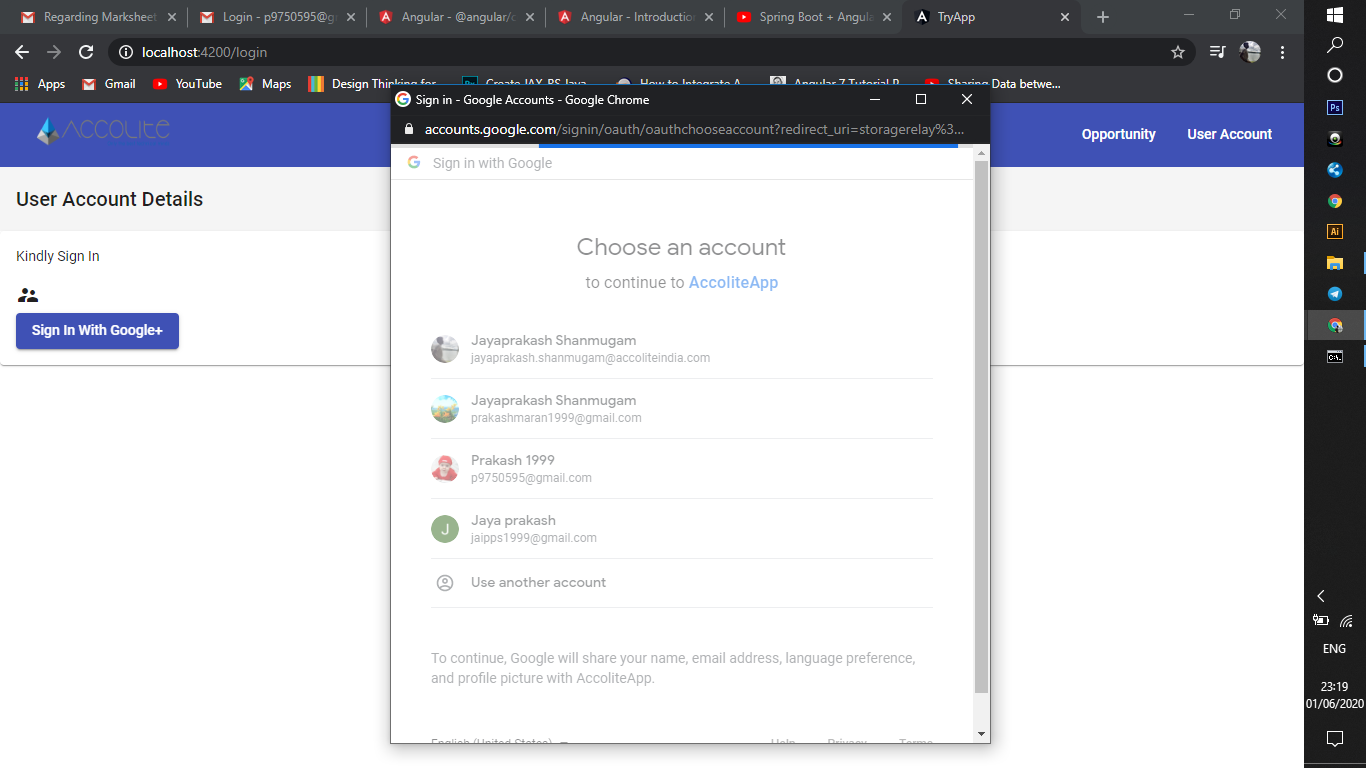
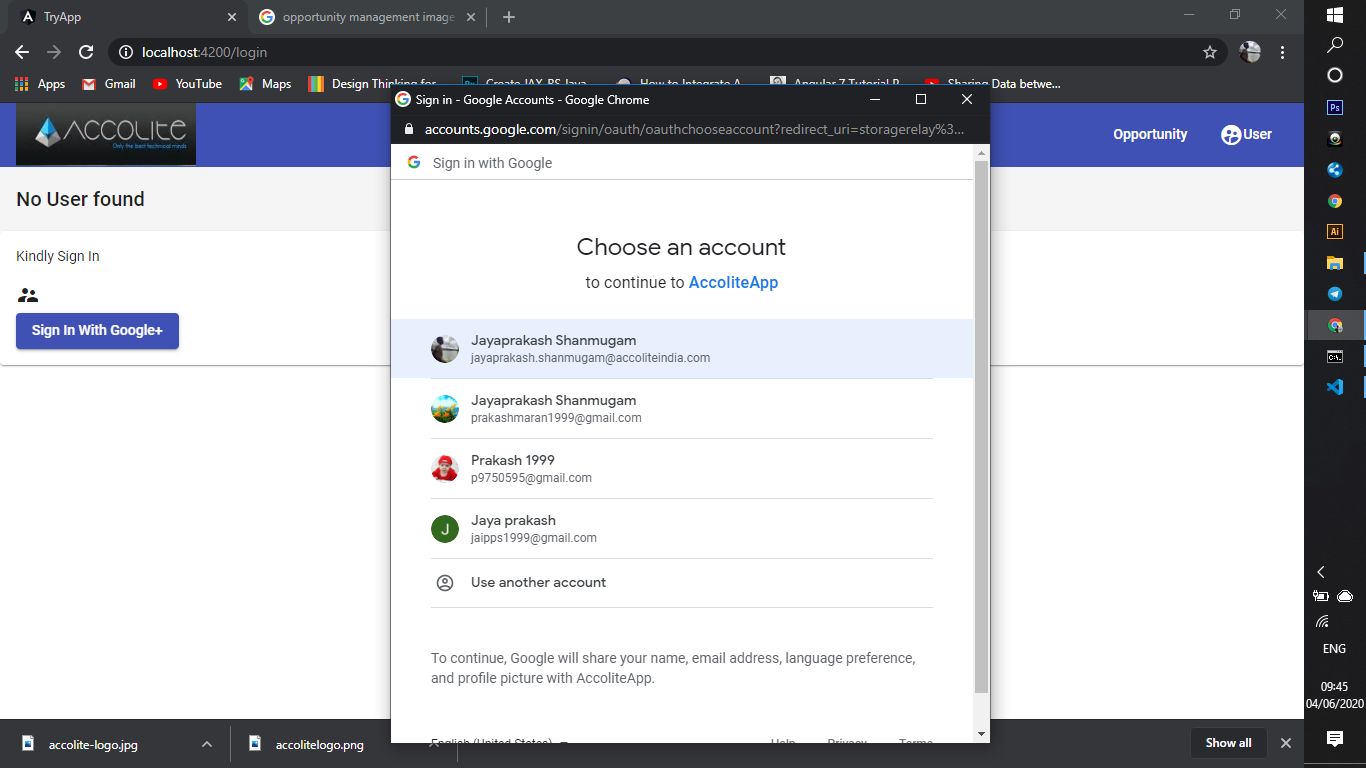
View Changes in Angular and naming Conventions in Spring boot

diff --git a/Angular/src/app/sample/sample.component.html b/Angular/src/app/sample/sample.component.html
@@ -5,58 +5,58 @@
   <mat-card>         
     <mat-card-content>  
                     <form>     
-                      <mat-form-field class="full-width" appearance="outline">
+                      <mat-form-field *ngFor="let Opportunity of message" class="full-width" appearance="outline">
                         <mat-label>OpportunityId</mat-label>
                         <input  matInput type="number"  placeholder="OpportunityId"  name="oid" [(ngModel)]=Opportunity.oid  required>
                         
                     </mat-form-field> 
                       &nbsp;&nbsp;
                     
-                      <mat-form-field class="full-width" appearance="outline">
+                      <mat-form-field *ngFor="let Opportunity of message" class="full-width" appearance="outline">
                         <mat-label>OppurtunityDescription</mat-label>
                         <input  matInput  placeholder="Description" name="description" [(ngModel)]=Opportunity.description required>
                      </mat-form-field>    
                      <br>
-                    <mat-form-field class="full-width" appearance="outline">
+                    <mat-form-field *ngFor="let Opportunity of message" class="full-width" appearance="outline">
                     <mat-label>Location</mat-label>
                     <input  matInput  placeholder="Location" name="location" [(ngModel)]=Opportunity.location  required>
                      </mat-form-field>     
                      &nbsp;&nbsp;
-                      <mat-form-field class="full-width" appearance="outline">
+                      <mat-form-field  *ngFor="let Opportunity of message" class="full-width" appearance="outline">
                         <mat-label>Skills</mat-label>
                         <input  matInput  placeholder="Skills"  name="skills" [(ngModel)]=Opportunity.skills required>
                      </mat-form-field> 
                      <br>          
-                      <mat-form-field class="full-width" appearance="outline">
+                      <mat-form-field *ngFor="let Opportunity of message" class="full-width" appearance="outline">
                         <mat-label>OpeningCount</mat-label>
                         <input  matInput type="number"  placeholder="OpeningCount" name="openingcount" [(ngModel)]=Opportunity.openingcount required>
                      </mat-form-field>
                      &nbsp;&nbsp;
-                    <mat-form-field class="full-width" appearance="outline">
+                    <mat-form-field  *ngFor="let Opportunity of message" class="full-width" appearance="outline">
                       <mat-label>ProjectDuration</mat-label>
                       <input  matInput type="number" placeholder="ProjectDuration in Days" name="projectduration" [(ngModel)]=Opportunity.projectduration required>
                    </mat-form-field>
                     
                    <br>
-                  <mat-form-field class="full-width" appearance="outline">
+                  <mat-form-field *ngFor="let Opportunity of message" class="full-width" appearance="outline">
                     <mat-label>LastDate</mat-label>
                     <input  matInput  placeholder="LastDate" name="lastdate" [(ngModel)]=Opportunity.lastdate required>
                  </mat-form-field>
                  &nbsp;&nbsp;
             
-                  <mat-form-field class="full-width" appearance="outline">
+                  <mat-form-field *ngFor="let Opportunity of message" class="full-width" appearance="outline">
                     <mat-label>Experience</mat-label>
                     <input  matInput  placeholder="Experience" name="experience"  [(ngModel)]=Opportunity.experience required>
                  </mat-form-field> 
                  <br>
   
-                 <mat-form-field class="full-width" appearance="outline">
+                 <mat-form-field *ngFor="let Opportunity of message" class="full-width" appearance="outline">
                   <mat-label>ManagerName</mat-label>
                   <input  matInput  placeholder="ManagerName" name="managername"  [(ngModel)]=Opportunity.managername required>
                </mat-form-field> 
                &nbsp;&nbsp;
                
-                 <mat-form-field class="full-width" appearance="outline">
+                 <mat-form-field  *ngFor="let Opportunity of message" class="full-width" appearance="outline">
                   <mat-label>ManagerEmail</mat-label>
                   <input  matInput type="email"  [formControl]="email" placeholder="ManagerEmail" name="manageremail" [(ngModel)]=Opportunity.manageremail required>
                   <mat-error *ngIf="email.invalid">{{getErrorMessage()}}</mat-error>
@@ -66,7 +66,7 @@
            
                
               <br>     
-                        <button mat-raised-button color="primary" (click)="updatenow()">Update</button> &nbsp;&nbsp;&nbsp;   
+                        <button mat-raised-button color="primary" (click)="updatenow(1)">Update</button> &nbsp;&nbsp;&nbsp;   
                         <button mat-raised-button color="primary" type="reset">Clear</button>    
               </form>
     </mat-card-content>    

diff --git a/Angular/src/app/login-user/login-user.component.html b/Angular/src/app/login-user/login-user.component.html
@@ -1,25 +1,52 @@
-<app-home></app-home>
-<mat-toolbar>
-  User Account Details&nbsp;&nbsp;&nbsp; 
-</mat-toolbar>
 
-<mat-card>  
+
+
+
      
    <div *ngIf="loggedIn===false">
-    <mat-card-content>Kindly Sign In</mat-card-content> 
+    <mat-toolbar color="primary">
+      <mat-toolbar-row>
+         <span><a href="/"> <img src="assets/img/accolite-logo.jpg" alt="MS-logo" width="180" height="70"></a></span>
+         <span class="spacer"></span>
+         
+            
+            <a  mat-button  routerLink="/viewtrends">Opportunity</a>
+         
+            <a  mat-button  routerLink="/login"><mat-icon>supervised_user_circle</mat-icon>User</a>
+      </mat-toolbar-row>
+    </mat-toolbar>
+    <mat-toolbar>
+      No User found&nbsp;&nbsp;&nbsp; 
+    </mat-toolbar>
+    <mat-card>
+    <mat-card-content>Kindly Sign In</mat-card-content>
     <mat-icon>supervisor_account</mat-icon>   
         <form [formGroup]="signinForm">
         </form>
         <div>
           <button mat-raised-button color="primary" (click)="signInWithGoogle()" class="btn btn-primary">Sign In With Google+</button>
         </div>
+       </mat-card> 
       </div> 
       <div *ngIf="loggedIn===true">
+        <mat-toolbar color="primary">
+          <mat-toolbar-row>
+             <span><a href="/"> <img src="assets/img/accolite-logo.jpg" alt="MS-logo" width="180" height="70"></a></span>
+             <span class="spacer"></span>
+                <a  mat-button  routerLink="/viewtrends">Opportunity</a>
+             <button  mat-button  (click)="signOut()">Logout</button>
+          </mat-toolbar-row>
+        </mat-toolbar>
+        <mat-toolbar>
+          User Details&nbsp;&nbsp;&nbsp; 
+        </mat-toolbar>
+        <mat-card>
         <mat-card-content>Signed In with Google</mat-card-content> 
         <mat-icon>supervisor_account</mat-icon> 
         <mat-icon>verified_user</mat-icon>
+        
         <div class="form-group">
-          <label for="firstname">First Name:&nbsp;&nbsp;;</label>
+          <label for="firstname">First Name:&nbsp;&nbsp;</label>
 
           <input type="text" class="form-control" id="firstname" [(ngModel)]="user.firstName" [value]="user.firstName" readonly >
         </div>          <div class="form-group">
@@ -30,9 +57,7 @@
           <input type="email" class="form-control" id="email2" [(ngModel)]="user.email" [value]="user.email" readonly >
         </div>
        <br>
-        <button mat-raised-button color="primary" (click)="signOut()" class="btn btn-primary">Sign Out</button>      
-         &nbsp;&nbsp;
-        <button mat-raised-button color="primary" (click)="saveuser()" class="btn btn-primary">Save User</button>      
-            
-      </div>   
-</mat-card>
+       </mat-card>
+      </div> 
+     
+

diff --git a/Angular/src/app/trendstable/trendstable.component.ts b/Angular/src/app/trendstable/trendstable.component.ts
@@ -9,6 +9,7 @@ import {MatSnackBar} from '@angular/material/snack-bar';
 import {MatDialogModule,MatDialog, MatDialogConfig} from '@angular/material/dialog';
 import { SampleComponent } from '../sample/sample.component';
 import { UserhomeComponent } from '../userhome/userhome.component';
+import { FormGroup, FormControl, Validators } from '@angular/forms';
 
 @Component({
   selector: 'app-trendstable',
@@ -19,6 +20,25 @@ export class TrendstableComponent implements OnInit {
   
   constructor(private OpportunityserviceService:OpportunityserviceService,private _snackBar: MatSnackBar,private dialog:MatDialog)
   {}
+  form : FormGroup = new FormGroup({
+    oid: new FormControl(null),
+    description: new FormControl('',Validators.required),
+    location: new FormControl('',Validators.required),
+    skills: new FormControl('',Validators.required),
+    openingcount: new FormControl(0),
+    projectduration: new FormControl(0),
+    lastdate: new FormControl('',Validators.required),
+    experience: new FormControl('',Validators.required),
+    managername: new FormControl('',Validators.required),
+    manageremail: new FormControl('',Validators.required),
+    
+    
+    
+  });
+
+
+
+
   message:any;
   displayedColumns: any[] = ['oid', 'description', 'location', 'skills','openingcount','projectduration','lastdate','experience','managername','manageremail', 'action'];
   dataSource = new MatTableDataSource<Opportunity>();
@@ -54,10 +74,13 @@ export class TrendstableComponent implements OnInit {
     const dialogconfig= new MatDialogConfig();
     dialogconfig.disableClose=true;
     dialogconfig.autoFocus=true;
-    dialogconfig.width="50%"; 
+    dialogconfig.width="80%"; 
     this.dialog.open(SampleComponent)
+    
   }
 
+
+  
 }
 
 

diff --git a/Angular/src/app/home/home.component.html b/Angular/src/app/home/home.component.html
@@ -1,12 +1,18 @@
 <mat-toolbar color="primary">
   <mat-toolbar-row>
-     <span><a href="/"> <img src="assets/img/accolite-logo.png" alt="MS-logo" width="180" height="70"></a></span>
+     <span><a href="/"> <img src="assets/img/accolite-logo.jpg" alt="MS-logo" width="180" height="70"></a></span>
      <span class="spacer"></span>
-     <button mat-button [matMenuTriggerFor]="menu">Opportunity</button>
-       <mat-menu #menu="matMenu">
-        <a  mat-button  routerLink="/createtrends">create opportunity</a><br>
-        <a  mat-button  routerLink="/viewtrends">view opportunity</a>
-      </mat-menu>
-     <a  mat-button  routerLink="/login">User Account</a>
+     
+        
+        <a  mat-button  routerLink="/viewtrends">Opportunity</a>
+     
+     <a  mat-button  routerLink="/login"><mat-icon>supervised_user_circle</mat-icon>User</a>
   </mat-toolbar-row>
 </mat-toolbar>
+<div class="main-div">
+<mat-card>
+  <mat-card-title><span>Welcome to the Opportunity Management Portal</span></mat-card-title><br><br>
+  <mat-card-content><span>Want to know more about Accolite</span> </mat-card-content>
+  <a mat-button color="primary" href="http://accolite.com/" target="_blank">Click here</a>
+</mat-card>
+</div>

diff --git a/Angular/src/app/trendstable/trendstable.component.html b/Angular/src/app/trendstable/trendstable.component.html
@@ -1,11 +1,19 @@
-<app-home></app-home>
+<mat-toolbar color="primary">
+  <mat-toolbar-row>
+     <span><a href="/"> <img src="assets/img/accolite-logo.jpg" alt="MS-logo" width="180" height="70"></a></span>
+     <span class="spacer"></span>
+        <a  mat-button  routerLink="/viewtrends">Opportunity</a>
+        <a  mat-button  routerLink="/login"><mat-icon>supervised_user_circle</mat-icon>User</a>
+  </mat-toolbar-row>
+</mat-toolbar>
 <mat-toolbar>
   Opportunity&nbsp;&nbsp;&nbsp; 
 </mat-toolbar>
 <mat-toolbar>
+<a  mat-raised-button color="primary"  routerLink="/createtrends">create_new+</a> &nbsp;&nbsp;
 <mat-icon>search</mat-icon> 
  <mat-form-field class="example-full-width">
-     <input (keyup)="applyFilter($event.target.value)" matInput placeholder="Search Trends" >   
+     <input (keyup)="applyFilter($event.target.value)" matInput placeholder="Search Opportunity" >   
  </mat-form-field>   
 </mat-toolbar>
 <div class="mat-elevation-z8">

diff --git a/Angular/src/app/userhome/userhome.component.html b/Angular/src/app/userhome/userhome.component.html
@@ -1,4 +1,11 @@
-<app-home></app-home>
+<mat-toolbar color="primary">
+  <mat-toolbar-row>
+     <span><a href="/"> <img src="assets/img/accolite-logo.jpg" alt="MS-logo" width="180" height="70"></a></span>
+     <span class="spacer"></span>
+        <a  mat-button  routerLink="/viewtrends">Opportunity</a>
+        <a  mat-button  routerLink="/login"><mat-icon>supervised_user_circle</mat-icon>User</a>
+  </mat-toolbar-row>
+</mat-toolbar>
 <mat-toolbar>
   <span>Create Opportunity</span>
 </mat-toolbar>

diff --git a/Angular/src/app/sample/sample.component.ts b/Angular/src/app/sample/sample.component.ts
@@ -31,11 +31,11 @@ export class SampleComponent implements OnInit {
   }
   
 
-   updatenow(){
-    let resp =this.OpportunityServiceService.dosave(this.Opportunity);
+   updatenow(oid:number){
+    let resp =this.OpportunityServiceService.getbyid(oid);
     resp.subscribe((data)=>this.message=data);
     console.log(resp);
-    this._snackBar.open("Response:", "Opportunity Added Successfully", {
+    this._snackBar.open("Response:", "getting details", {
       duration: 2000,
     });
 

diff --git a/Angular/src/app/opportunityservice.service.ts b/Angular/src/app/opportunityservice.service.ts
@@ -2,6 +2,7 @@ import { Injectable } from '@angular/core';
 import { HttpClient } from '@angular/common/http';
 
 
+
 @Injectable({
   providedIn: 'root'
 })
@@ -23,6 +24,11 @@ export class OpportunityserviceService {
   public deleteopportunity(oid)
   {
     return this.http.delete("http://localhost:8080/deleteopportunity/"+oid);
+  }
+
+  public getbyid(oid)
+  {
+    return this.http.get("http://localhost:8080/getoppurtunityid/"+oid);
   }
   
 }

diff --git a/Angular/src/app/app.module.ts b/Angular/src/app/app.module.ts
@@ -51,6 +51,7 @@ export function provideConfig() {
     UserhomeComponent,
     TrendstableComponent,
     SampleComponent,
+    
   
   ],
   imports: [

diff --git a/Angular/src/app/home/home.component.css b/Angular/src/app/home/home.component.css
@@ -1,3 +1,9 @@
 .spacer {
   flex: 1 1 auto;
 }
+.main-div{
+  height: 100vh;
+  display: flex;
+  justify-content: center;
+  align-items: center;
+}

diff --git a/Angular/src/app/login-user/login-user.component.css b/Angular/src/app/login-user/login-user.component.css
@@ -13,6 +13,9 @@
     background-color: #ddd;
     outline: none;
   }
+  .spacer {
+    flex: 1 1 auto;
+  }
   
   
   

diff --git a/Angular/src/app/trendstable/trendstable.component.css b/Angular/src/app/trendstable/trendstable.component.css
@@ -9,3 +9,6 @@ table {
     width: 400px;
     height: 910px
 }
+.spacer {
+  flex: 1 1 auto;
+}
